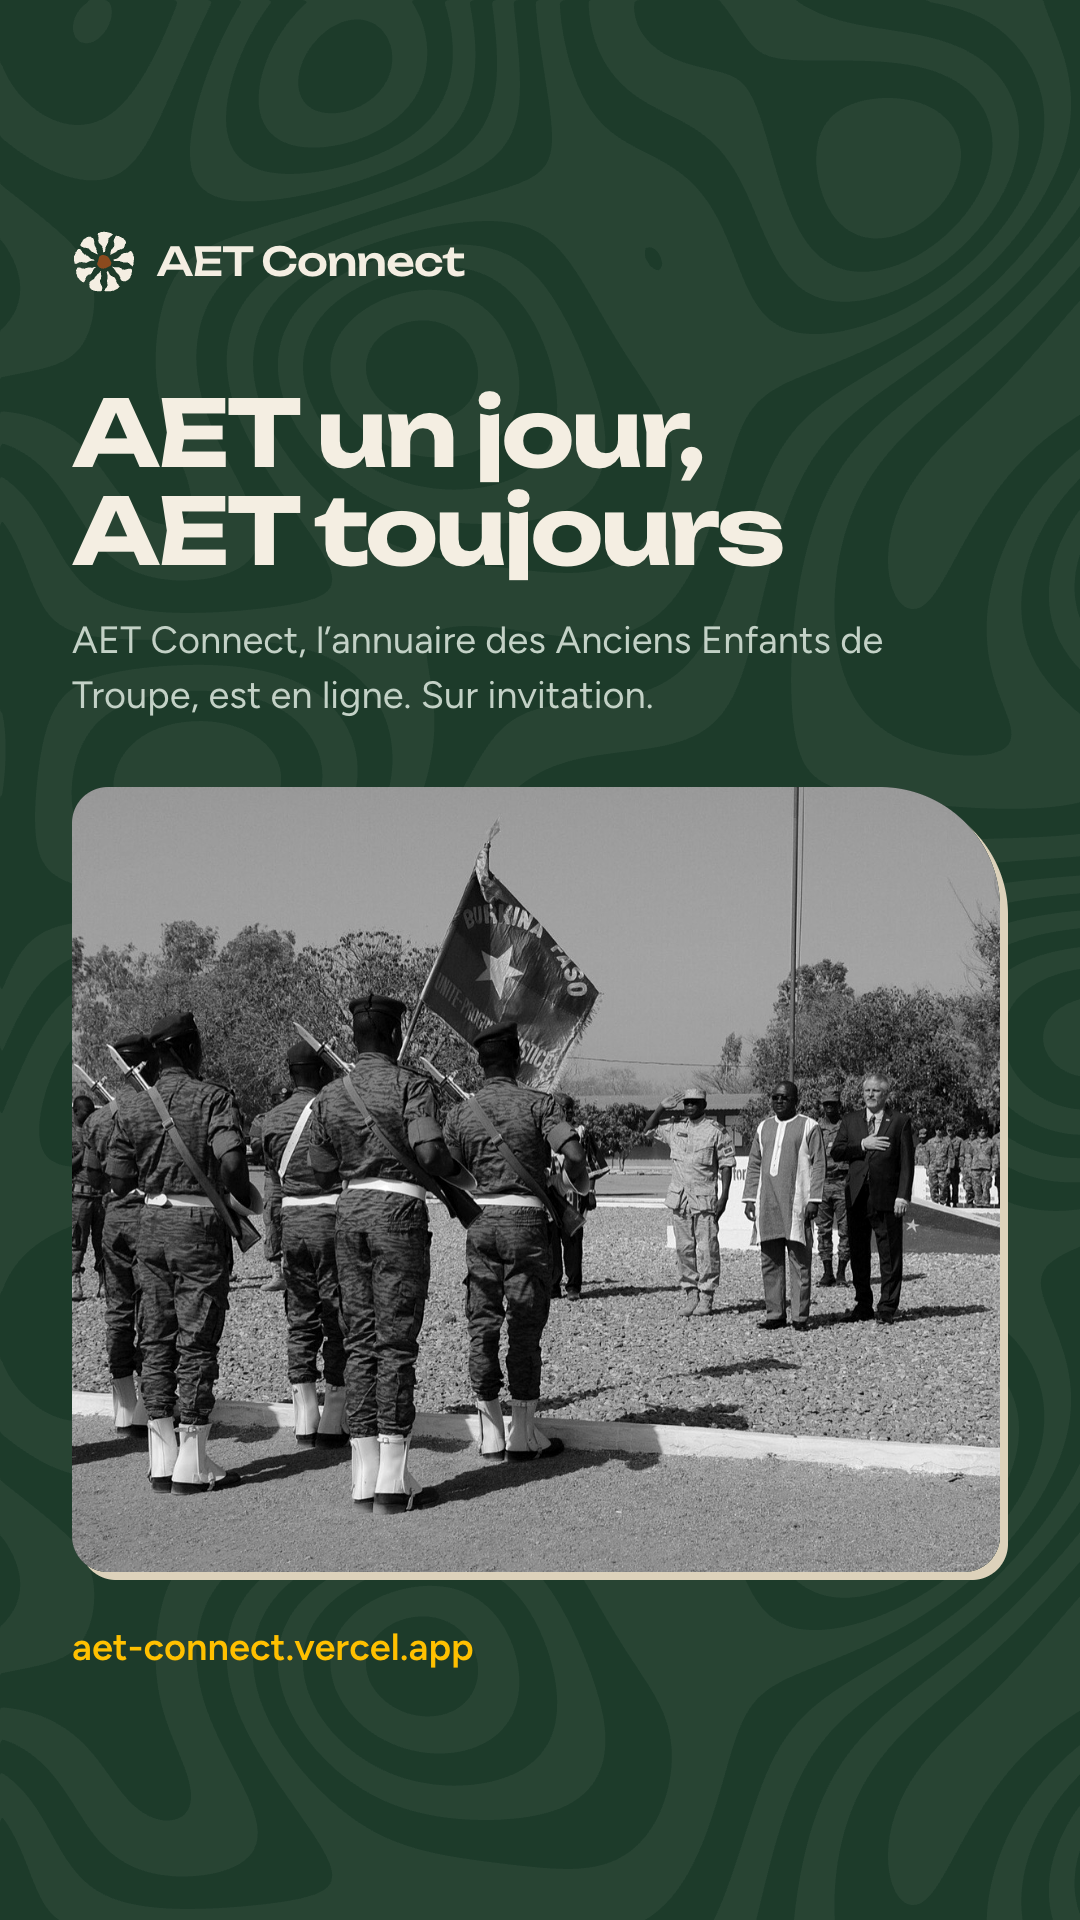
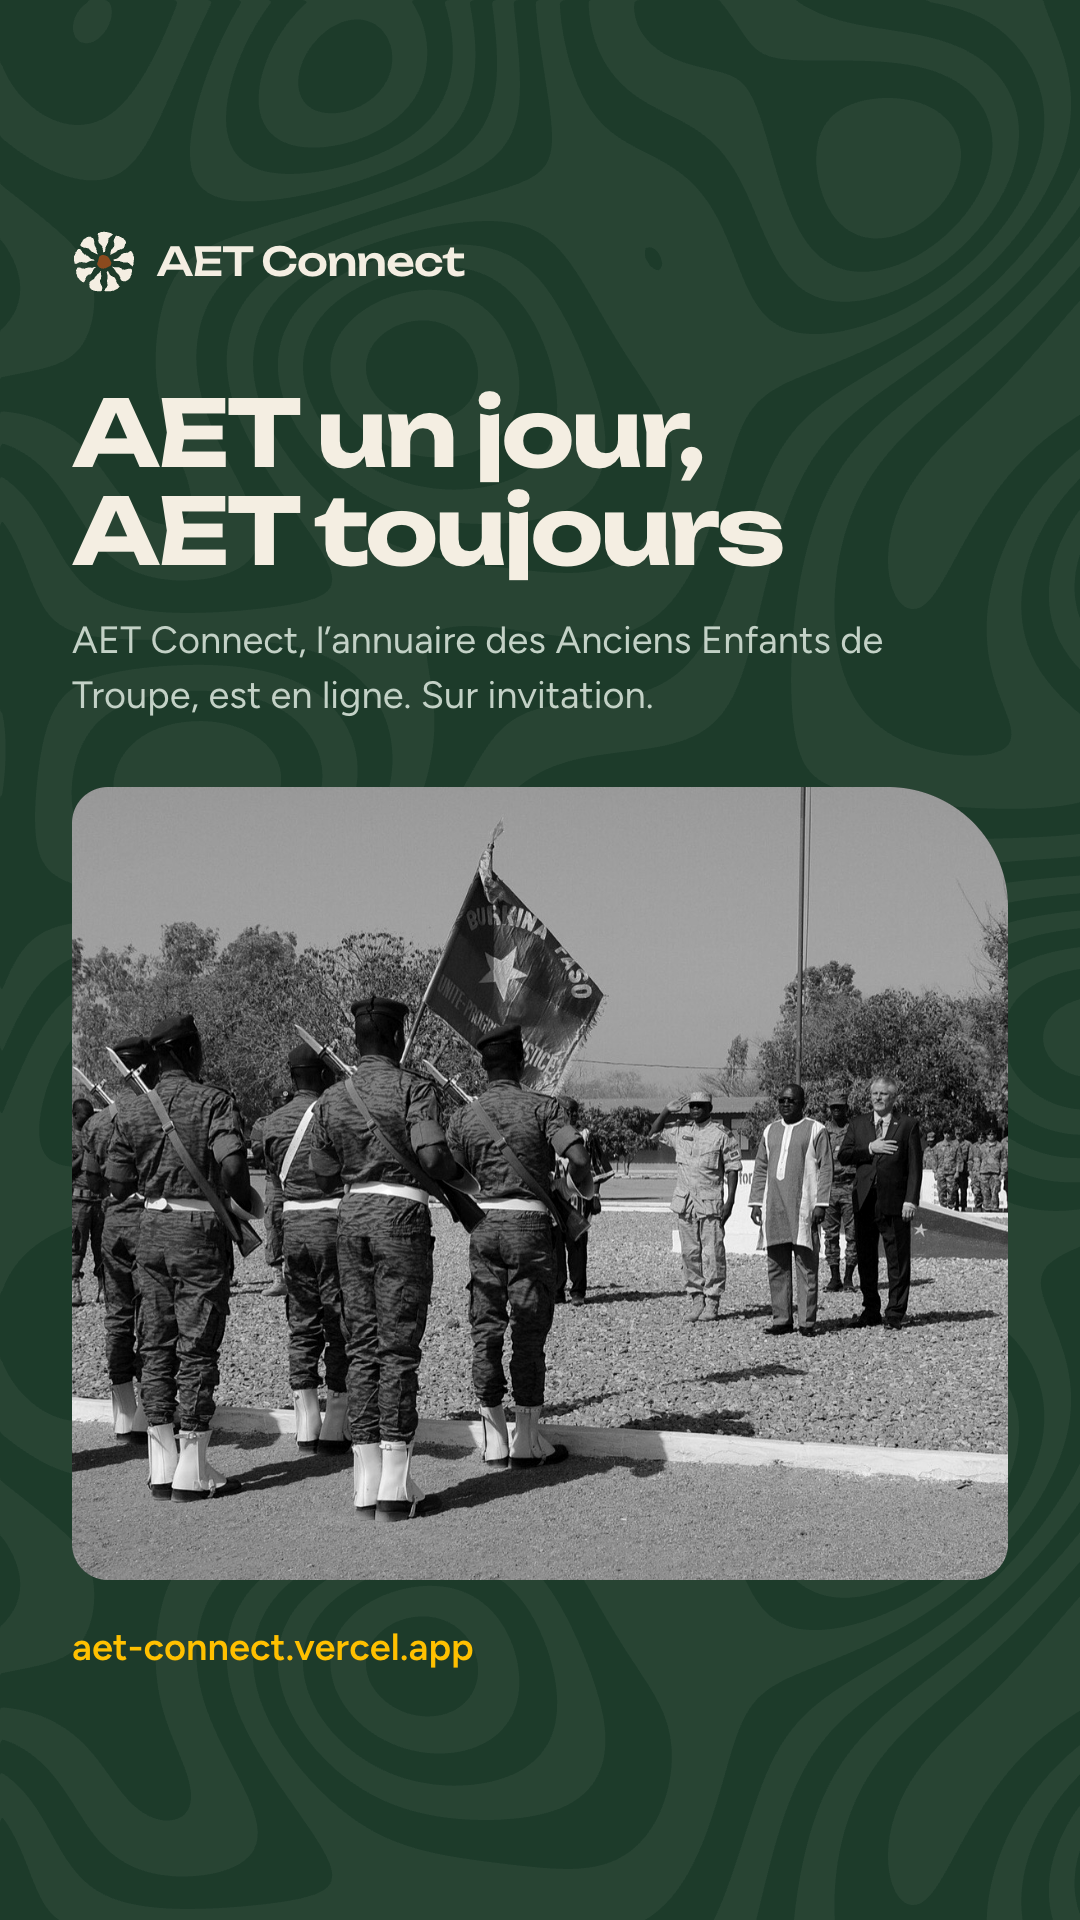
kit réseaux : ombre retirée, à la demande de l'équipe Business

Changed region(s): [[0.0611, 0.4062, 0.9472, 0.8438], [0.8861, 0.4062, 0.9167, 0.4375]]

diff --git a/frontend/scripts/kit-reseaux.tsx b/frontend/scripts/kit-reseaux.tsx
@@ -94,7 +94,7 @@ ${trame}
 .titre{font-family:Unbounded,sans-serif;font-weight:700;letter-spacing:-0.03em;line-height:1.06;text-wrap:balance}
 .marque{display:flex;align-items:center;white-space:nowrap}
 .photo{display:block;width:100%;height:100%;object-fit:cover;filter:grayscale(1) contrast(1.06)}
-.cadre{--d:${Math.max(3, Math.round(Math.min(l, h) / 135))}px;overflow:hidden;background:${C.vertNuit};box-shadow:var(--d) var(--d) 0 0 ${C.sable};margin-right:var(--d);margin-bottom:var(--d)}
+.cadre{overflow:hidden;background:${C.vertNuit}}
 .or{color:${C.or}}.brume{color:${C.brume}}.olive{color:${C.olive}}.terre{color:${C.terre}}.vert{color:${C.vert}}.creme{color:${C.creme}}
 </style></head><body>${corps}</body></html>`
 }
